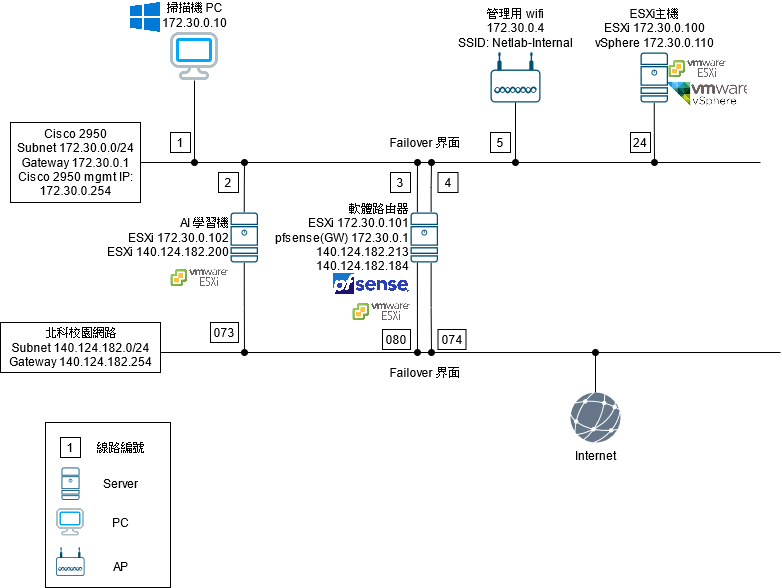
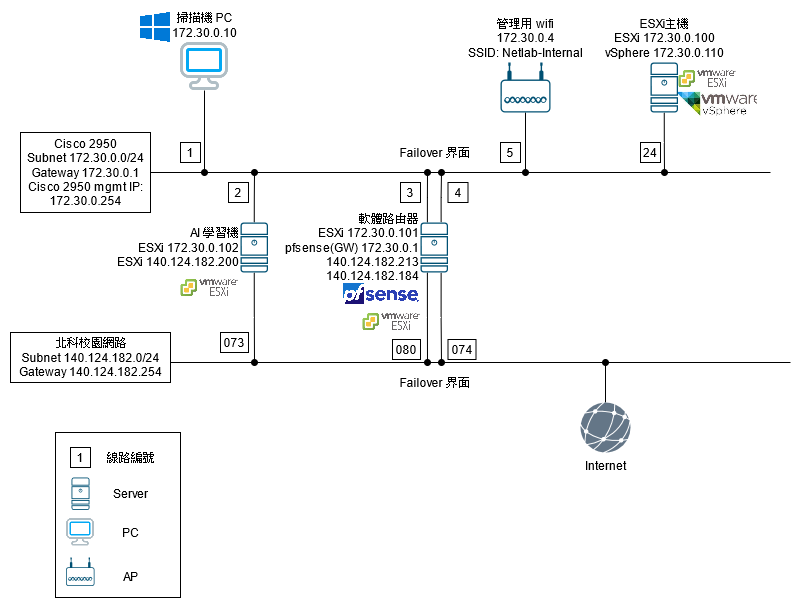
Update network-structure.md

Changed region(s): [[0.0, 0.0, 0.9821, 0.7959], [0.0614, 0.7041, 0.2455, 1.0], [0.1535, 0.8571, 0.1841, 0.8878]]

diff --git a/systems/network-structure.md b/systems/network-structure.md
@@ -37,9 +37,11 @@ pfsense 有兩個 WAN 的 IP。一個是 `140.124.182.213`，這個 IP 可以透
 | 172.30.0.101            | ESXi 管理IP                     | 這是架構圖中的「軟體路由器」的ESXi 管理IP，這台ESXi受到 vSphere 的管理，可以直接登入 vSphere 網頁管理整個叢集，而不用透過這個 IP 的ESXi管理界面管理。            |
 | 172.30.0.102            | ESXi 管理IP                     | 這是架構圖中的「AI學習機」的ESXi 管理IP，這台ESXi受到 vSphere 的管理，可以直接登入 vSphere 網頁管理整個叢集，而不用透過這個 IP 的ESXi管理界面管理。              |
 | 172.30.0.110            | [VM] vSphere                    | 這個 VM 是一個 VMWare 的 ESXi 叢集管理系統，可以管理多台裝有 ESXi Hypervisor 的伺服器，登入這個 IP 的網頁就可以管理所有架構中所有主機上的 VM                     |
+| 172.30.254              | Cisco 2950 Switch 管理 IP       | Layer 2 的 Switch 有 IP?? 別誤會，這只是讓你遠端登入 Switch 做設定的管理IP                                                                                       |
 
 ## WAN 位址對照
 
 WAN 的 IP 就是屬於學校的 IP，資安考量不會在這裡公開，畢竟計中那邊的防火牆是佛系擋法。
 
 請見另一個 Private 專案的 [WAN 位址對照](https://github.com/NTUT-Netlab/confidential/blob/main/ntut-wan-ip-addresses.md)
+
